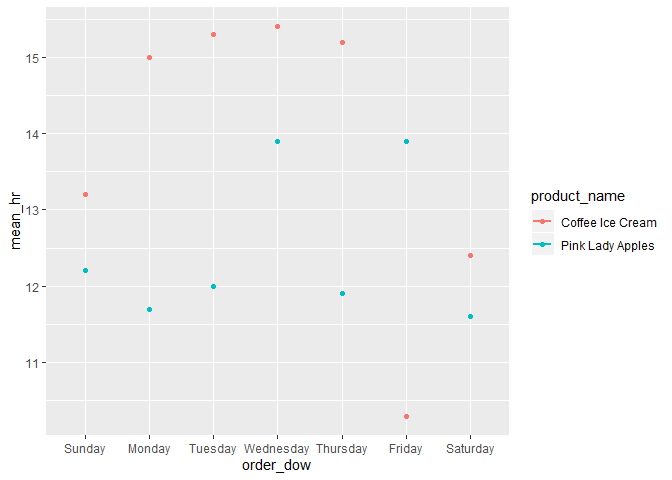
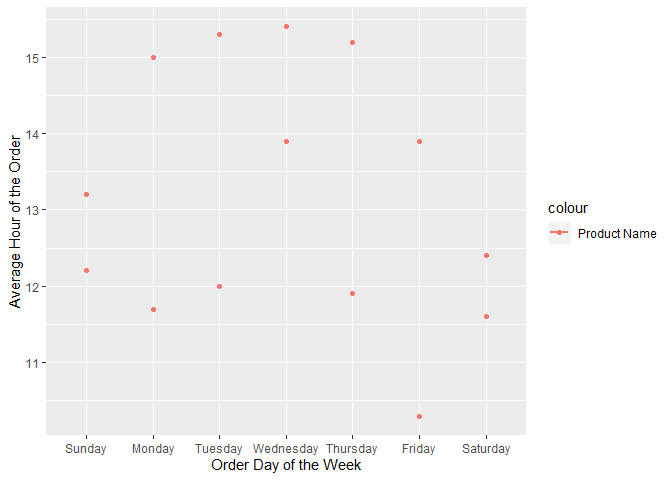
more cosmetic changes, fixed graph axis titles, other things

diff --git a/p8105_hw3_jsg2145.md b/p8105_hw3_jsg2145.md
@@ -154,9 +154,14 @@ instacart %>%
   mutate(
     order_dow = factor(order_dow, 
                        labels = c("Sunday", "Monday", "Tuesday", "Wednesday", "Thursday", "Friday", "Saturday"))) %>%
-  ggplot(aes(x = order_dow, y = mean_hr, color = product_name)) +
+  rename("Product Name" = product_name) %>% 
+  ggplot(aes(x = order_dow, y = mean_hr, color = "Product Name")) +
   geom_point() + 
-  geom_smooth(se = FALSE)
+  geom_smooth(se = FALSE) +
+  labs(
+    x = "Order Day of the Week",
+    y = "Average Hour of the Order"
+  )
 ```
 
     ## Warning in product_name == c("Pink Lady Apples", "Coffee Ice Cream"):
@@ -342,6 +347,11 @@ accel_dat %>%
 |      34 | 367824.00 |
 |      35 | 445366.00 |
 
+It’s difficult to tell what’s going on in this data from the table. A
+graph shows that it is difficult to
+
+predict a trend.
+
 ``` r
 accel_dat %>% 
   group_by(day_id, day) %>%
@@ -364,23 +374,7 @@ accel_dat %>%
 
 ![](p8105_hw3_jsg2145_files/figure-gfm/unnamed-chunk-16-1.png)<!-- -->
 
-``` r
-accel_dat %>% 
-  select(weekday, day_id, day)
-```
+This graph shows that the activity of the subject changed from week to
+week.
 
-    ## # A tibble: 50,400 x 3
-    ## # Groups:   day [7]
-    ##    weekday day_id day   
-    ##    <chr>    <dbl> <chr> 
-    ##  1 Weekday      1 Friday
-    ##  2 Weekday      1 Friday
-    ##  3 Weekday      1 Friday
-    ##  4 Weekday      1 Friday
-    ##  5 Weekday      1 Friday
-    ##  6 Weekday      1 Friday
-    ##  7 Weekday      1 Friday
-    ##  8 Weekday      1 Friday
-    ##  9 Weekday      1 Friday
-    ## 10 Weekday      1 Friday
-    ## # ... with 50,390 more rows
+It is difficiult to predict a trend by the day of the week.
